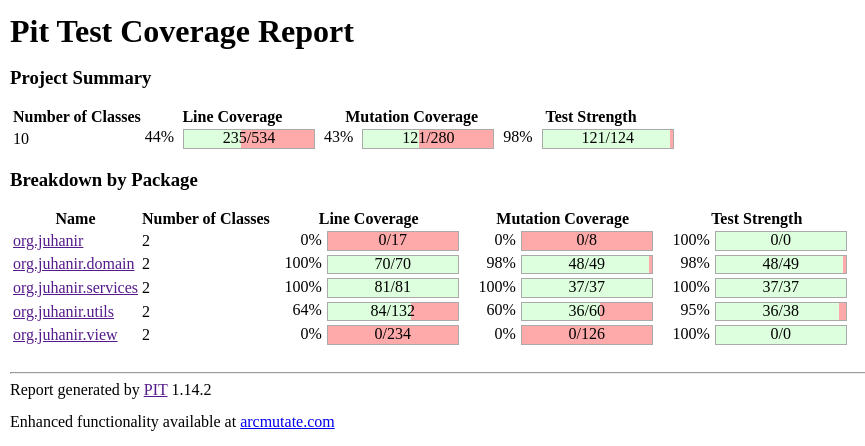
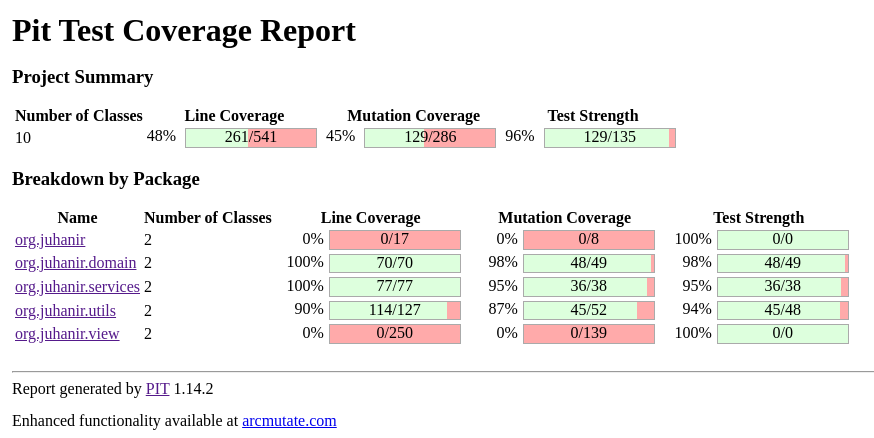
increase test coverage

diff --git a/melodify/src/test/java/org/juhanir/utils/FileIoTest.java b/melodify/src/test/java/org/juhanir/utils/FileIoTest.java
@@ -1,0 +1,152 @@
+package org.juhanir.utils;
+
+import static org.junit.jupiter.api.Assertions.assertEquals;
+import static org.junit.jupiter.api.Assertions.assertInstanceOf;
+import static org.junit.jupiter.api.Assertions.assertIterableEquals;
+import static org.junit.jupiter.api.Assertions.assertThrows;
+import static org.junit.jupiter.api.Assertions.assertTrue;
+import static org.junit.jupiter.api.Assertions.fail;
+
+import java.io.FileInputStream;
+import java.io.FileNotFoundException;
+import java.io.IOException;
+import java.nio.file.Paths;
+import java.util.List;
+import java.util.stream.Collectors;
+
+import org.junit.jupiter.api.Test;
+
+public class FileIoTest {
+
+  // File sourceFile = new File("src/test/resources/" + file);
+
+  @Test
+  void readFileReturnsFileInputStream() {
+    try {
+      FileIo fileIo = new FileIo();
+      var res = fileIo.readFile("src/test/resources/g99.xml");
+      assertInstanceOf(FileInputStream.class, res);
+    } catch (Exception e) {
+      fail(e);
+    }
+  }
+
+  @Test
+  void readFileThrowsWhenNotFound() {
+    FileIo fileIo = new FileIo();
+    assertThrows(FileNotFoundException.class,
+        () -> fileIo.readFile("src/test/resources/wilhelmscream.xml"));
+  }
+
+  @Test
+  void readFileOverload1ReturnsFileInputStream() {
+    try {
+      FileIo fileIo = new FileIo();
+      var res = fileIo.readFile("src/test/resources", "g99.xml");
+      assertInstanceOf(FileInputStream.class, res);
+    } catch (Exception e) {
+      fail(e);
+    }
+  }
+
+  @Test
+  void readFileOverload1ThrowsWhenNotFound() {
+    FileIo fileIo = new FileIo();
+    assertThrows(FileNotFoundException.class,
+        () -> fileIo.readFile("src/test/resources", "wilhelmscream.xml"));
+  }
+
+  @Test
+  void readFileAsString() {
+    try {
+      FileIo fileIo = new FileIo();
+      var res = fileIo.readFileAsString("src/test/resources/", "hello.txt");
+      assertEquals("well hello!", res);
+    } catch (Exception e) {
+      fail(e);
+    }
+  }
+
+  @Test
+  void readFileAsStringThrowsWhenNotFound() {
+    FileIo fileIo = new FileIo();
+    assertThrows(IOException.class,
+        () -> fileIo.readFileAsString("src/test/resources", "wilhelmscream.xml"));
+  }
+
+  @Test
+  void getAllFilePathsInFolder() {
+    try {
+      FileIo fileIo = new FileIo();
+      var res = fileIo.getAllFilePathsInFolder("src/test/resources/")
+          .stream()
+          .map(f -> Paths.get(f).getFileName().toString())
+          .collect(Collectors.toList());
+      assertInstanceOf(List.class, res);
+      List<String> expected = List.of(
+          "a07.xml",
+          "hello.txt",
+          "alphabet-song.xml",
+          "g118.xml",
+          "a83.xml",
+          "fifths-large.xml",
+          "multi-keys.xml",
+          "a34.xml",
+          "g112.xml",
+          "fifths-small.xml",
+          "g99.xml",
+          "unsupported-mode.xml");
+      for (String exp : expected) {
+        assertTrue(res.contains(exp));
+      }
+    } catch (Exception e) {
+      fail(e);
+    }
+  }
+
+  @Test
+  void getAllFilePathsInFolderDoesNotThrow() {
+    try {
+      FileIo fileIo = new FileIo();
+      var res = fileIo.getAllFilePathsInFolder("not/a/real/path/foo/bar")
+          .stream()
+          .map(f -> Paths.get(f).getFileName().toString())
+          .collect(Collectors.toList());
+      assertInstanceOf(List.class, res);
+      assertEquals(0, res.size());
+    } catch (Exception e) {
+      fail(e);
+    }
+  }
+
+  @Test
+  void getAllFilePathsInFolderOverload1() {
+    try {
+      FileIo fileIo = new FileIo();
+      var res = fileIo.getAllFilePathsInFolder("src/test/resources/", ".txt")
+          .stream()
+          .map(f -> Paths.get(f).getFileName().toString())
+          .collect(Collectors.toList());
+      assertInstanceOf(List.class, res);
+      assertIterableEquals(List.of("hello.txt"), res);
+    } catch (Exception e) {
+      fail(e);
+    }
+  }
+
+  @Test
+  void getAllFilePathsInFolderDoesNotThrowOverload1() {
+    try {
+      FileIo fileIo = new FileIo();
+      var res = fileIo.getAllFilePathsInFolder("not/a/real/path/foo/bar", ".txt")
+          .stream()
+          .map(f -> Paths.get(f).getFileName().toString())
+          .collect(Collectors.toList());
+      assertInstanceOf(List.class, res);
+      assertEquals(0, res.size());
+    } catch (Exception e) {
+      fail(e);
+    }
+  }
+
+}

diff --git a/melodify/src/test/java/org/juhanir/services/GeneratorServiceTest.java b/melodify/src/test/java/org/juhanir/services/GeneratorServiceTest.java
@@ -203,8 +203,7 @@ public class GeneratorServiceTest {
         (Constants.OCTAVE_LOWER_BOUND * 12) + melody[0],
         (Constants.OCTAVE_LOWER_BOUND * 12) + melody[1],
         (Constants.OCTAVE_LOWER_BOUND * 12) + melody[2],
-        (Constants.OCTAVE_LOWER_BOUND * 12) + melody[3]
-    );
+        (Constants.OCTAVE_LOWER_BOUND * 12) + melody[3]);
     assertEquals(expected, res);
   }
 
@@ -220,8 +219,7 @@ public class GeneratorServiceTest {
         (Constants.OCTAVE_LOWER_BOUND * 12) + melody[0],
         (Constants.OCTAVE_LOWER_BOUND * 12) + melody[1],
         (Constants.OCTAVE_LOWER_BOUND * 12) + melody[2],
-        (Constants.OCTAVE_LOWER_BOUND * 12) + melody[3]
-    );
+        (Constants.OCTAVE_LOWER_BOUND * 12) + melody[3]);
     assertEquals(expected, res);
   }
 
@@ -237,8 +235,7 @@ public class GeneratorServiceTest {
         (Constants.OCTAVE_LOWER_BOUND * 12) + melody[0],
         (Constants.OCTAVE_LOWER_BOUND * 12) + melody[1],
         (Constants.OCTAVE_LOWER_BOUND * 12) + melody[2],
-        (Constants.OCTAVE_LOWER_BOUND * 12) + melody[3]
-    );
+        (Constants.OCTAVE_LOWER_BOUND * 12) + melody[3]);
     assertEquals(expected, res);
   }
 
@@ -247,8 +244,23 @@ public class GeneratorServiceTest {
     Trie trie = new Trie();
     GeneratorService generator = new GeneratorService(trie, new Random());
     String[] res = generator.getGenerationFileNames("C", 2, "quarter");
-    assertTrue(res[0].matches("C\\(quarter\\)-degree2-[0-9]{2}-[0-9]{2}\\.[0-9]{2}\\.[0-9]{2}\\.[0-9]{2}\\.[0-9]{3}\\.staccato"));
-    assertTrue(res[1].matches("C\\(quarter\\)-degree2-[0-9]{2}-[0-9]{2}\\.[0-9]{2}\\.[0-9]{2}\\.[0-9]{2}\\.[0-9]{3}\\.MID"));
+    assertTrue(res[0]
+        .matches("C\\(quarter\\)-degree2-[0-9]{2}-[0-9]{2}\\.[0-9]{2}\\.[0-9]{2}\\.[0-9]{2}\\.[0-9]{3}\\.staccato"));
+    assertTrue(
+        res[1].matches("C\\(quarter\\)-degree2-[0-9]{2}-[0-9]{2}\\.[0-9]{2}\\.[0-9]{2}\\.[0-9]{2}\\.[0-9]{3}\\.MID"));
+  }
+
+  @Test
+  void predictSequenceContinuesToMaxLength() {
+    Trie testTrie = new Trie();
+    testTrie.insert(new int[] { 3, 2, 2 });
+    testTrie.insert(new int[] { 2, 2, 2 });
+    testTrie.insert(new int[] { 2, 2, 2 });
+    GeneratorService generator = new GeneratorService(testTrie, new Random());
+    int[] prefix = new int[] { 3, 2 };
+    int[] generation = generator.predictSequence(prefix, 10);
+    int[] expected = new int[] { 3, 2, 2, 2, 2, 2, 2, 2, 2, 2, 2, 2, 2, 2, 2, 2, 2, 2, 2, 2 };
+    assertArrayEquals(generation, expected);
   }
 
   @Nested

diff --git a/melodify/src/main/java/org/juhanir/utils/FileIo.java b/melodify/src/main/java/org/juhanir/utils/FileIo.java
@@ -10,8 +10,8 @@ import java.io.PrintWriter;
 import java.nio.file.Files;
 import java.nio.file.Path;
 import java.nio.file.Paths;
-import java.util.ArrayList;
 import java.util.Arrays;
+import java.util.Collections;
 import java.util.List;
 import java.util.stream.Collectors;
 
@@ -55,7 +55,7 @@ public class FileIo {
           .collect(Collectors.toList());
     } catch (Exception e) {
       fileLogger.error(e);
-      return new ArrayList<>();
+      return Collections.emptyList();
     }
   }
 
@@ -76,7 +76,7 @@ public class FileIo {
           .collect(Collectors.toList());
     } catch (Exception e) {
       fileLogger.error(e);
-      return new ArrayList<>();
+      return Collections.emptyList();
     }
   }
 

diff --git a/melodify/src/main/java/org/juhanir/domain/TrieNode.java b/melodify/src/main/java/org/juhanir/domain/TrieNode.java
@@ -46,7 +46,7 @@ public class TrieNode {
   }
 
   public boolean hasChildren() {
-    return Arrays.stream(this.children).filter(Objects::nonNull).count() > 0;
+    return this.childCount > 0;
   }
 
   public TrieNode getChild(int value) {
